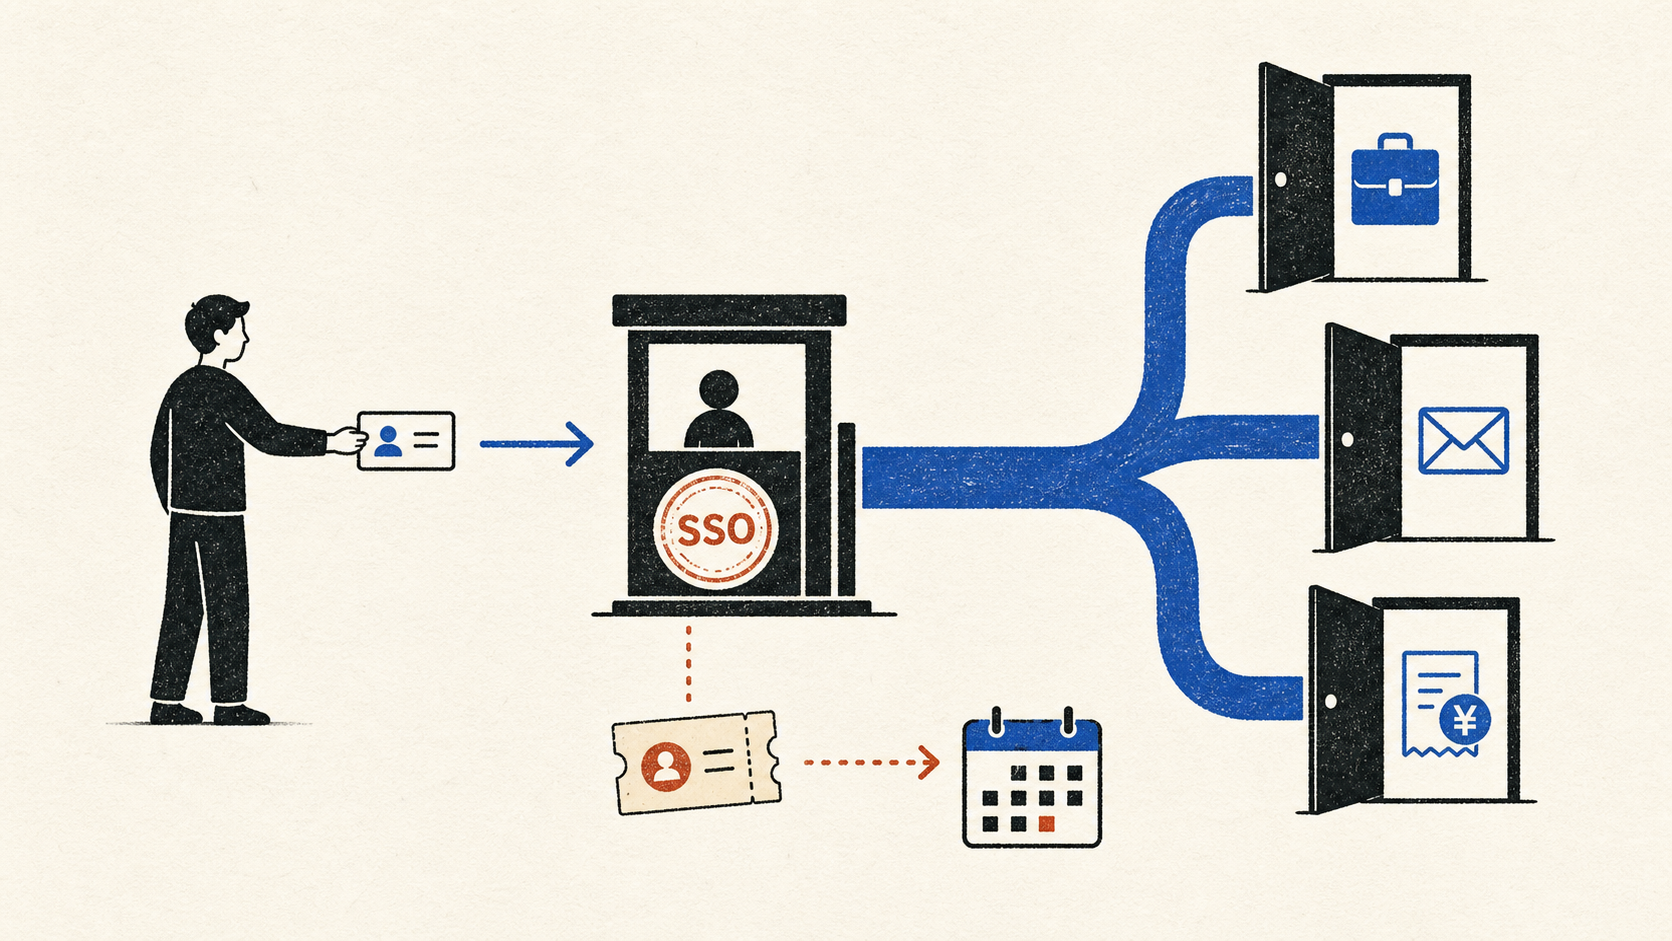
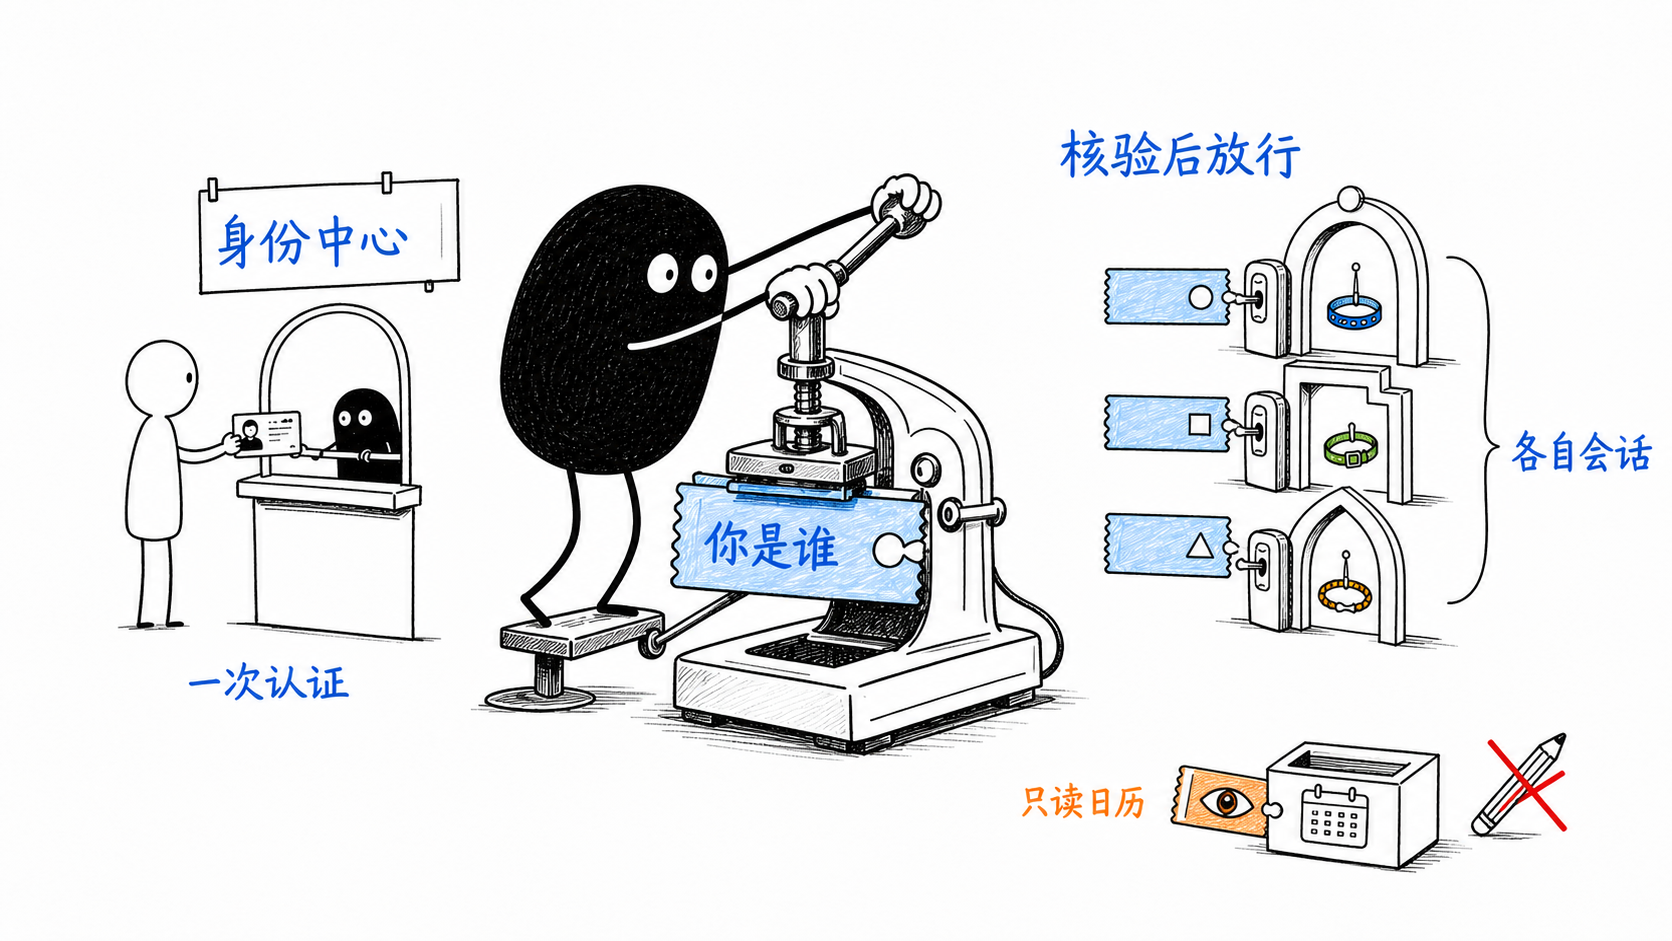
📝 docs(blog): 调整 SSO 文章配图与导语

diff --git a/docs/2026/2026-08-18-understanding-sso-auth-protocols.md b/docs/2026/2026-08-18-understanding-sso-auth-protocols.md
@@ -8,9 +8,9 @@ ogImage: /understanding-sso-auth-protocols/01.png
 
 # 一次登录，到底发生了什么：从 Session 到 SSO、OAuth 2.0、OIDC 与 SAML
 
-> 你只在统一身份中心输入了一次密码，随后打开 OA、邮箱和报销系统，却都已经登录；另一个日历工具甚至能在不知道密码的情况下读取你的日程。这些系统究竟拿到了什么，又凭什么相信它？
+![一次身份核验后，不同业务系统核验专属凭证并建立各自会话，受限授权只能读取日历](/understanding-sso-auth-protocols/01.png)
 
-![一次登录连接多个业务系统的 SSO 认证流程](/understanding-sso-auth-protocols/01.png)
+> 你只在统一身份中心输入了一次密码，随后打开 OA、邮箱和报销系统，却都已经登录；另一个日历工具甚至能在不知道密码的情况下读取你的日程。这些系统究竟拿到了什么，又凭什么相信它？
 
 ## 0x00 起因
 
@@ -56,7 +56,7 @@ flowchart TB
 5. **OAuth 2.0 的本职是委托授权，不是身份认证。** 它不能单独作为标准的 SSO 身份协议；OIDC 借用了 OAuth 2.0 的授权流程，再补充 ID Token 等身份认证规范，因此可以用来实现现代 SSO。
 6. 无论使用 CAS、OIDC 还是 SAML，跨系统凭证通常只负责把身份「送到门口」；验证通过后，每个业务系统往往仍会创建自己的 Cookie 和 Session。
 
-所以，后面学习每套方案时，不妨始终追问三个问题：它是在传递身份还是授予权限，传递的凭证是什么，接收方又怎样相信它。
+所以，碰到认证、授权问题，只需要问自己三个问题：它是在传递身份还是授予权限，传递的凭证是什么，接收方又怎样相信它。
 
 ## 0x01 什么是认证与授权？
 
